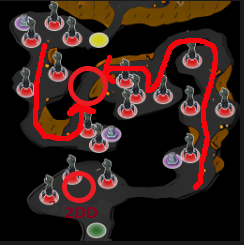
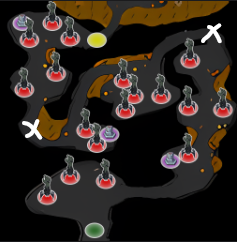
fix(raid_cog): fixed typo and changed valehir strat image and message content

diff --git a/templates/templates.py b/templates/templates.py
@@ -2,7 +2,11 @@ RAID_TEMPLATES = {
     "Alzanor": {"max_participants": 15, "colour": (26, 64, 240)},
     "Belial": {"max_participants": 20, "colour": (0, 0, 0)},
     "Carno": {"max_participants": 8, "colour": (0, 0, 0)},
-    "DraGla": {"max_participants": 15, "colour": (255, 69, 0)},
+    "DraGla": {
+        "max_participants": 15,
+        "colour": (255, 69, 0),
+        "opt_messages": ["2 Seal Draco • 2 Seal Glacerus"],
+    },
     "Erenia": {"max_participants": 15, "colour": (0, 0, 0)},
     "Fernon": {"max_participants": 8, "colour": (255, 69, 0)},
     "Kirollas": {"max_participants": 8, "colour": (255, 69, 0)},
@@ -12,11 +16,7 @@ RAID_TEMPLATES = {
         "max_participants": 15,
         "colour": (0, 0, 0),
         "opt_images": ["images/valehir_strat.png", "images/valehir_strat_2.png"],
-        "opt_messages": [
-            "1 Seal / Personne",
-            "25 Anti-Venom / Personne",
-            "DD Take flowers",
-        ],
+        "opt_messages": ["1 Seal • Anti-Venom • Flower"],
     },
     "Zenas": {"max_participants": 20, "colour": (255, 241, 186)},
 }

diff --git a/cogs/raid_cog.py b/cogs/raid_cog.py
@@ -187,7 +187,7 @@ class RaidCog(commands.Cog):
             await interaction.response.defer(ephemeral=True, thinking=True)
             original_message_id = interaction.channel.id
             raid = self.bot.raids.get(original_message_id)
-            admin = discord.utils.get(interaction.guild.roles, name="Assitant/Gardien")
+            admin = discord.utils.get(interaction.guild.roles, name="Assistant/Gardien")
             if (
                 interaction.user.id != raid.author.id
                 and admin not in interaction.user.roles
